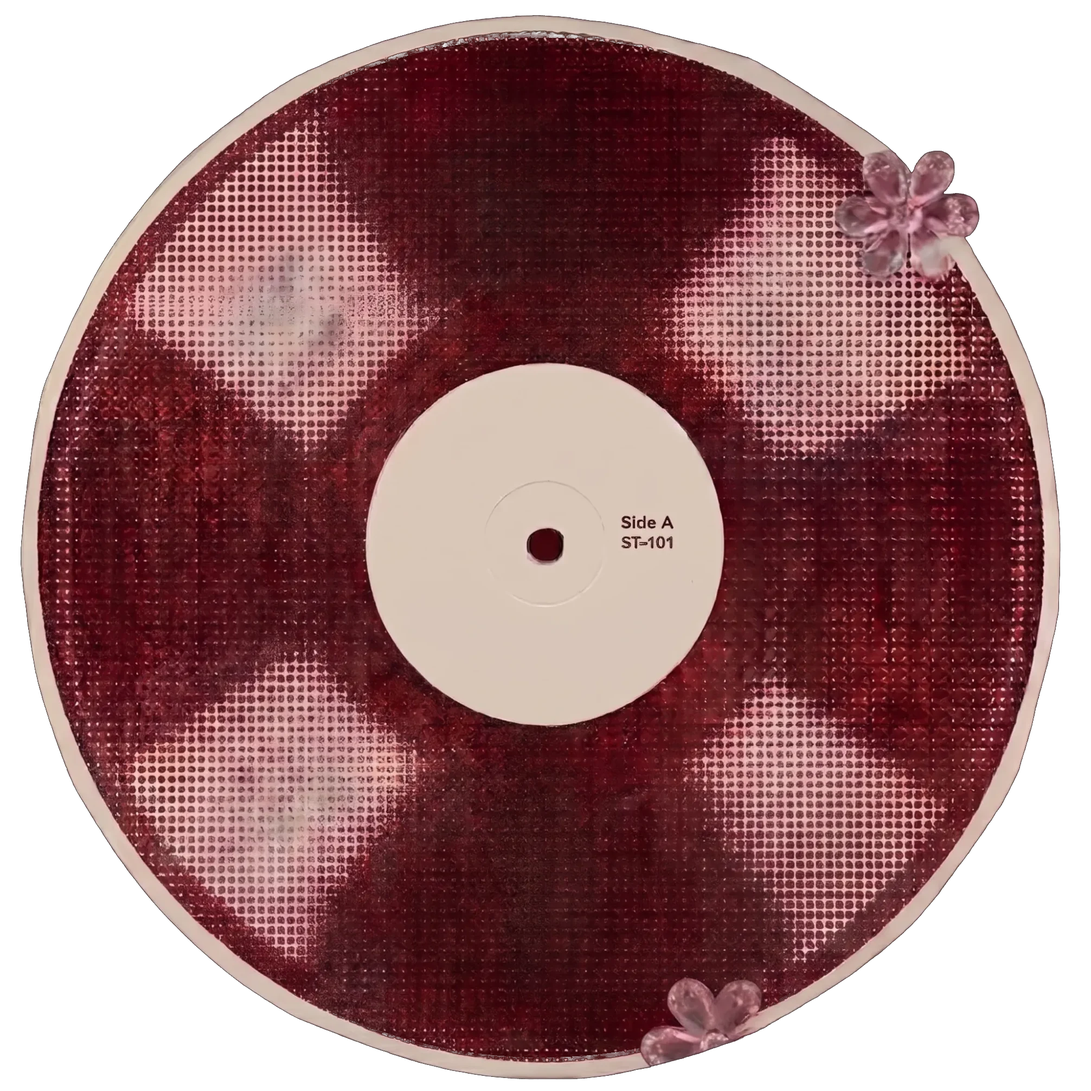
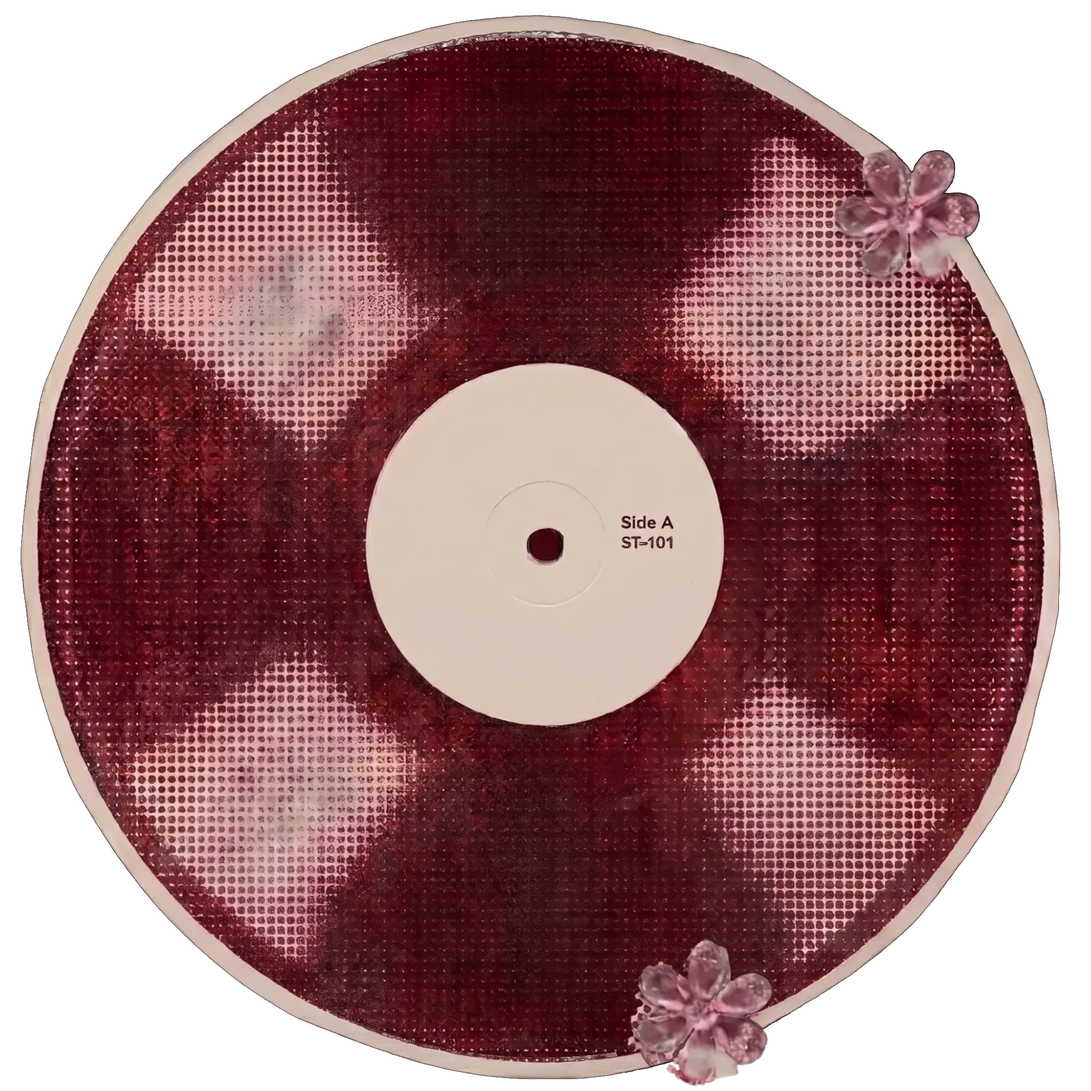
Home page: staves flow, both gems whole, the name no longer glows or flashes when clicked

Changed region(s): [[0.5547, 0.8628, 0.7087, 1.0]]

diff --git a/frontend/collage.js b/frontend/collage.js
@@ -25,3 +25,53 @@ if (stage) {
   window.addEventListener("resize", fit);
   fit();
 }
+
+// The two staves flow: a slow wave travels along each one, left to right, carrying the notes.
+// Each staff image is redrawn onto a canvas in thin columns, each column lifted by a sine
+// wave that moves with time. The ends are held still so the staff stays where the design puts it.
+const reduceMotion = window.matchMedia("(prefers-reduced-motion: reduce)");
+
+function flowStaff(img, phase) {
+  const W = img.naturalWidth, H = img.naturalHeight;
+  const pad = Math.round(H * 0.14);              // room for the wave above and below
+  const cssW = parseFloat(img.style.width), cssH = parseFloat(img.style.height);
+  const scale = cssH / H;                          // design px per image px
+  const cv = document.createElement("canvas");
+  cv.width = W; cv.height = H + 2 * pad;
+  cv.className = img.className;
+  cv.setAttribute("aria-hidden", "true");
+  // Same matrix as the image; the canvas is taller by the padding, so start it higher by the same amount.
+  const m = img.style.transform.match(/matrix\(([^)]+)\)/)[1].split(",").map(Number);
+  const [a, b, c, d, e, f] = m;
+  const up = pad * scale;
+  cv.style.cssText = `transform:matrix(${a},${b},${c},${d},${e - c * up},${f - d * up});width:${cssW}px;height:${cssH + 2 * up}px`;
+  img.replaceWith(cv);
+  const g = cv.getContext("2d");
+  const step = 3, amp = pad * 0.8, wavelength = W / 2.2, period = 5.5;
+  function draw(t) {
+    g.clearRect(0, 0, cv.width, cv.height);
+    for (let x = 0; x < W; x += step) {
+      const hold = Math.min(1, x / (W * 0.12), (W - x) / (W * 0.12));   // ends stay put
+      const y = pad + amp * hold * Math.sin((2 * Math.PI * x) / wavelength - (2 * Math.PI * t) / period + phase);
+      g.drawImage(img, x, 0, step, H, x, y, step, H);
+    }
+  }
+  let running = false;
+  function frame(now) {
+    draw(now / 1000);
+    if (running) requestAnimationFrame(frame);
+  }
+  function setMotion() {
+    const go = !reduceMotion.matches && document.body.dataset.view === "home";
+    if (go && !running) { running = true; requestAnimationFrame(frame); }
+    if (!go) { running = false; draw(0); }
+  }
+  setMotion();
+  reduceMotion.addEventListener?.("change", setMotion);
+  new MutationObserver(setMotion).observe(document.body, { attributes: true, attributeFilter: ["data-view"] });
+}
+
+document.querySelectorAll(".collage img.cl-staff").forEach((img, i) => {
+  const start = () => flowStaff(img, i * Math.PI * 0.8);
+  if (img.complete && img.naturalWidth) start(); else img.addEventListener("load", start, { once: true });
+});

diff --git a/frontend/styles.css b/frontend/styles.css
@@ -1169,7 +1169,7 @@ body[data-view="walk3d"] .view[data-view="walk3d"] { display: block; }
 .collage .cl-staff { opacity: 0.92; }
 /* The name is the way in: it lifts a little and glows when you point at it. */
 #hero-cta .cl-logo { transition: transform .25s ease, filter .25s ease; filter: drop-shadow(0 6px 10px rgba(0, 0, 0, 0.35)); }
-#hero-cta:hover .cl-logo, #hero-cta:focus-visible .cl-logo { transform: translateY(-3px) rotate(-1deg); filter: drop-shadow(0 0 18px rgba(255, 214, 224, 0.55)) drop-shadow(0 8px 14px rgba(0, 0, 0, 0.4)); }
+/* No glow or lift on the name: it stays exactly as designed. */
 #hero-cta:focus-visible { outline: none; }
 /* The record: only the disc itself is clickable, and it breathes while a chord plays. */
 .cl-record-hit { border-radius: 50%; }

diff --git a/frontend/layout.js b/frontend/layout.js
@@ -137,7 +137,9 @@ function blobTransform() {
 function zoomIn() {
   if (state.zooming || document.body.dataset.view !== "home") return;
   state.cameFromHome = true;
-  if (reduced()) { crossFade(() => { go("#/search"); focusBrief(); }); return; }
+  // The collage's name is artwork, not a button shape: fade to the search page instead of
+  // growing a coloured box out of it (that flashed the name cherry red).
+  if (reduced() || $("hero-cta")?.classList.contains("cl-hit")) { crossFade(() => { go("#/search"); focusBrief(); }); return; }
   state.zooming = true;
   const v = veil();
   // Starts as the button itself (same cherry), fills the screen, then turns the search page's olive.
